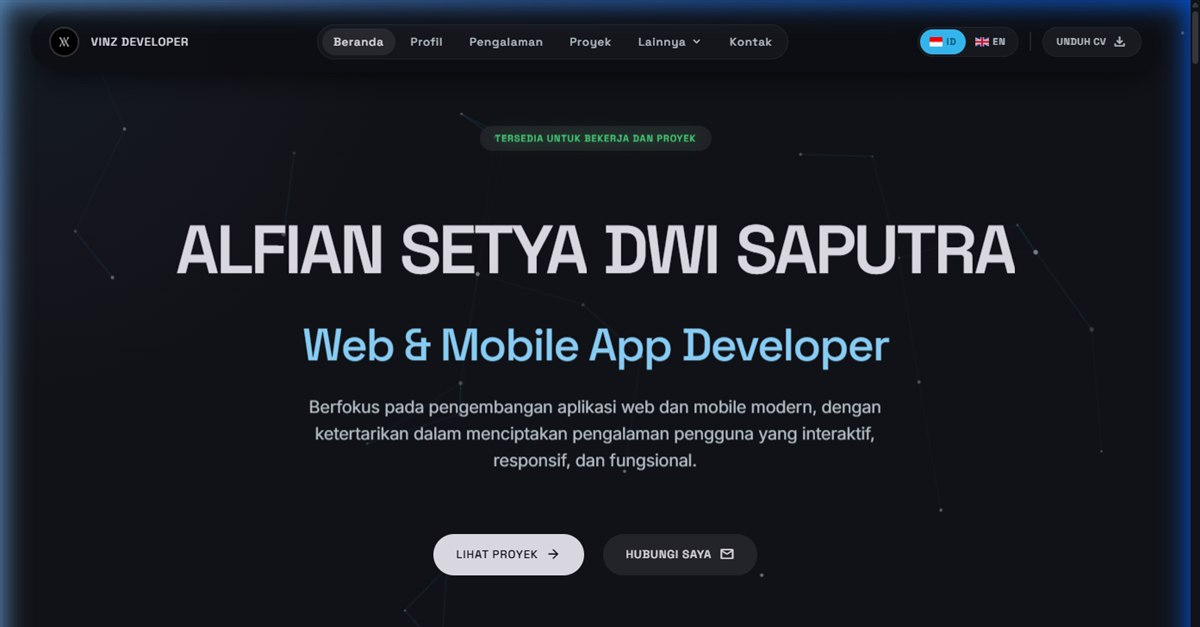
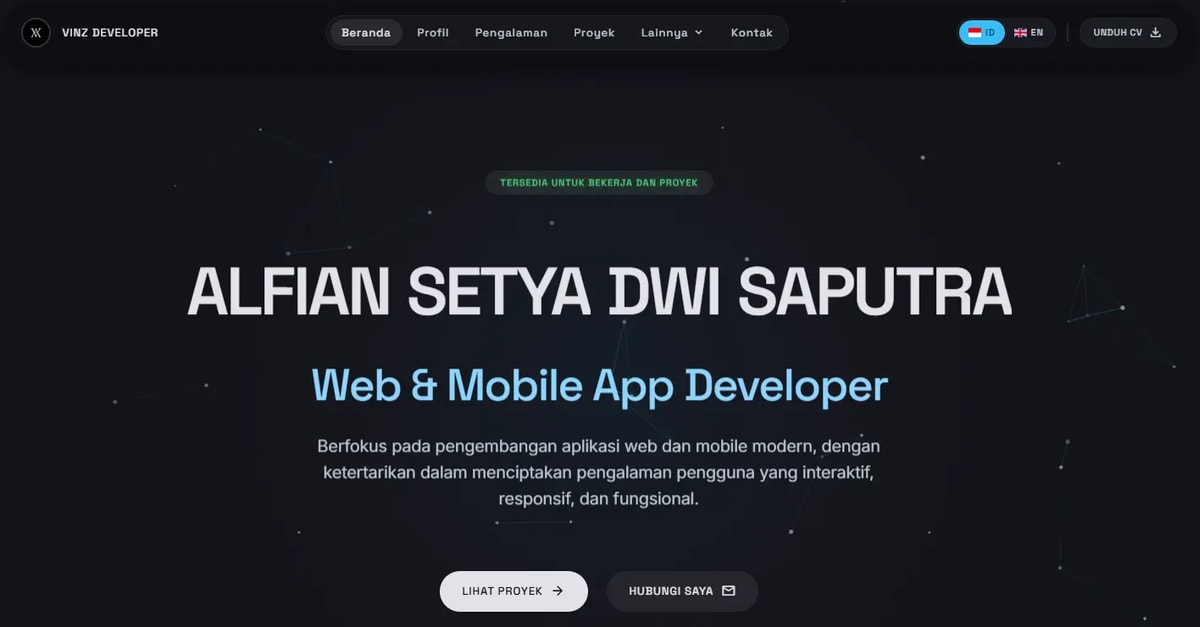
chore(seo): use provided homepage screenshot as OG preview image (cache-busted)

diff --git a/index.html b/index.html
@@ -20,8 +20,8 @@
   <meta property="og:url" content="https://vinz-developer-portfolio.pages.dev/" />
   <meta property="og:title" content="VINZ Developer - Portofolio" />
   <meta property="og:description" content="Portfolio of Alfian Setya Dwi Saputra (VINZ Developer) — Web &amp; Mobile App Developer specializing in modern web and mobile application development." />
-  <meta property="og:image" content="https://vinz-developer-portfolio.pages.dev/images/og-image.jpg" />
-  <meta property="og:image:secure_url" content="https://vinz-developer-portfolio.pages.dev/images/og-image.jpg" />
+  <meta property="og:image" content="https://vinz-developer-portfolio.pages.dev/images/og-image.jpg?v=2" />
+  <meta property="og:image:secure_url" content="https://vinz-developer-portfolio.pages.dev/images/og-image.jpg?v=2" />
   <meta property="og:image:type" content="image/jpeg" />
   <meta property="og:image:width" content="1200" />
   <meta property="og:image:height" content="627" />
@@ -32,7 +32,7 @@
   <meta name="twitter:card" content="summary_large_image" />
   <meta name="twitter:title" content="VINZ Developer - Portofolio" />
   <meta name="twitter:description" content="Portfolio of Alfian Setya Dwi Saputra (VINZ Developer) — Web &amp; Mobile App Developer specializing in modern web and mobile application development." />
-  <meta name="twitter:image" content="https://vinz-developer-portfolio.pages.dev/images/og-image.jpg" />
+  <meta name="twitter:image" content="https://vinz-developer-portfolio.pages.dev/images/og-image.jpg?v=2" />
   <!-- External CDN Preconnects -->
   <link rel="preconnect" href="https://fonts.googleapis.com" />
   <link rel="preconnect" href="https://fonts.gstatic.com" crossorigin />
